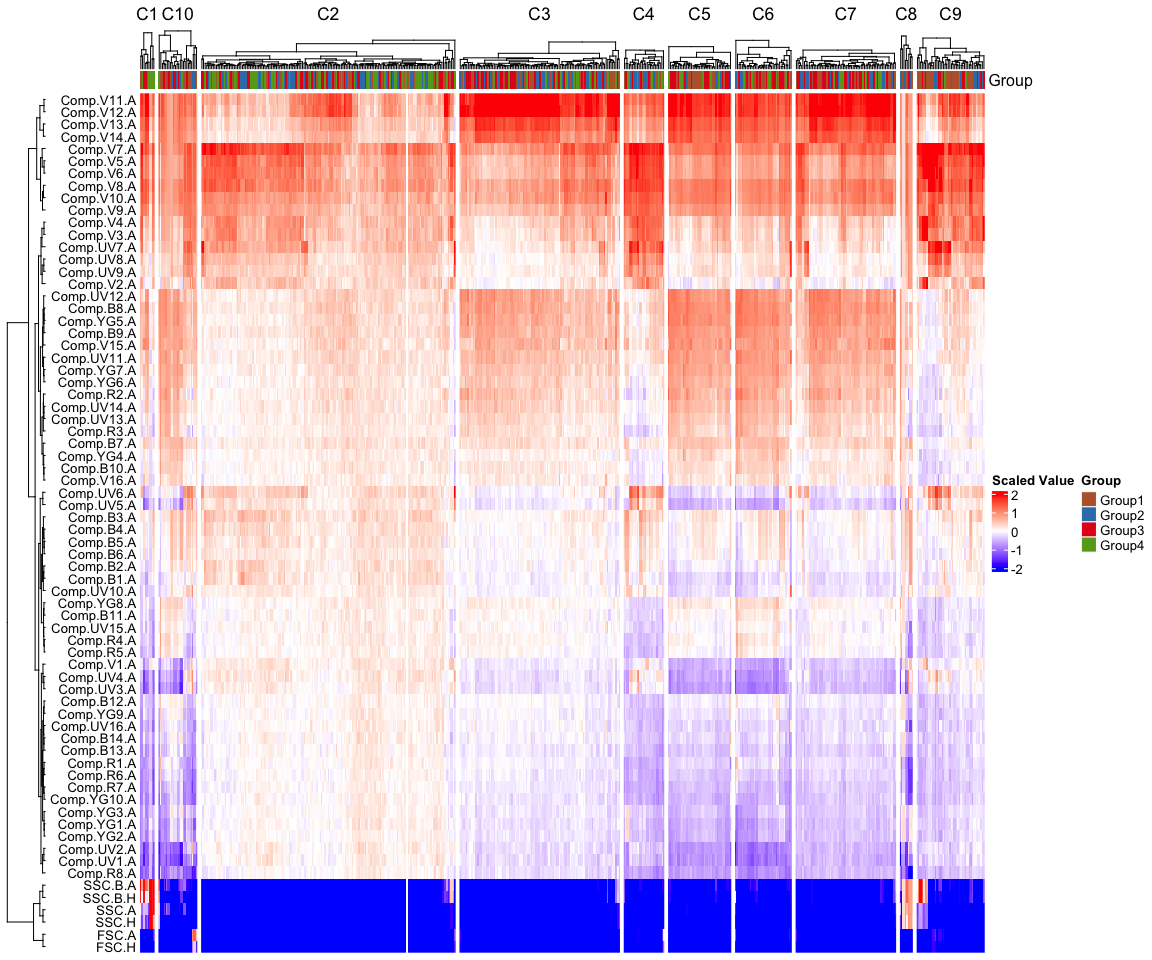
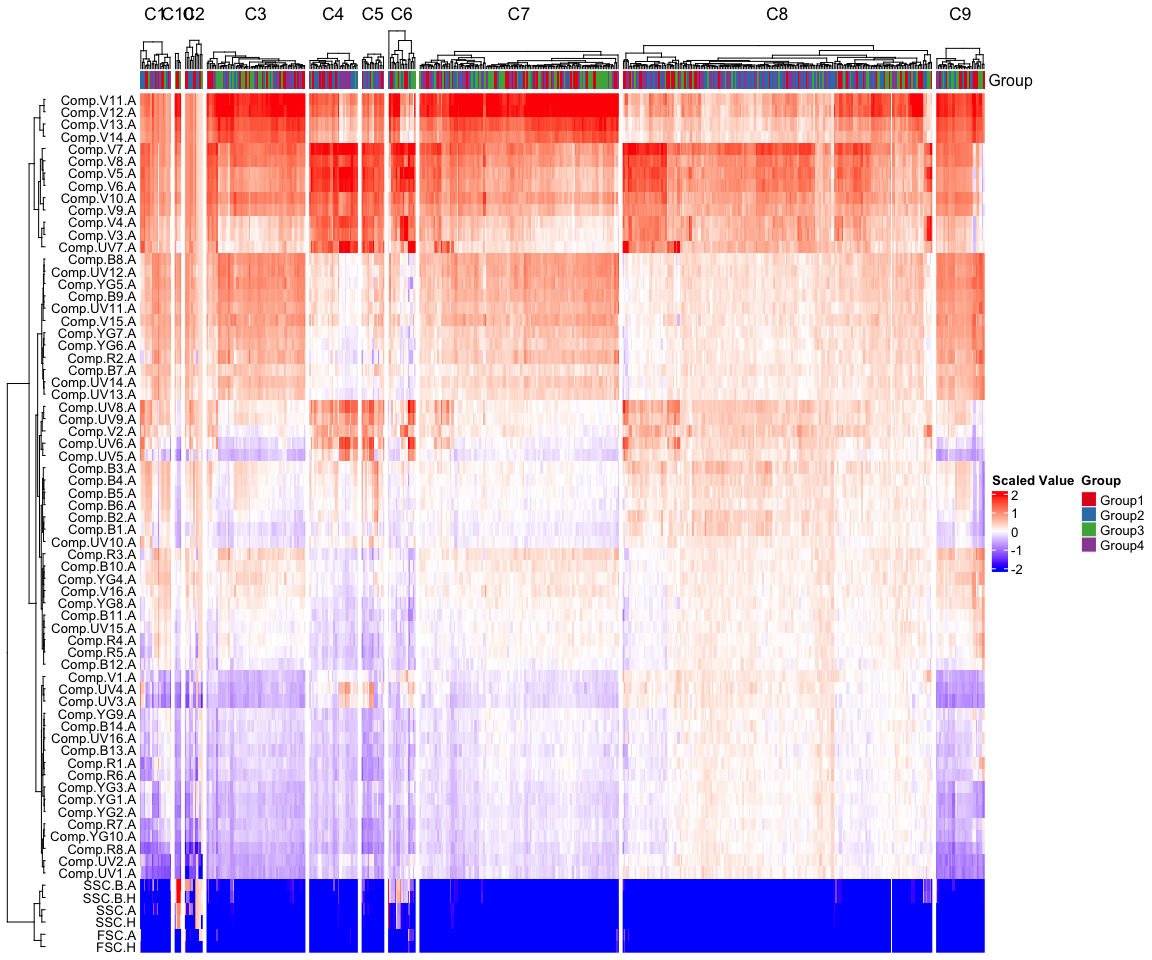
Move to NIAID org and documentation update

diff --git a/README.md b/README.md
@@ -6,20 +6,47 @@ incorporate all aspects of a dataset in an unbiased manner.
 
 ## JoesFlow Installation
 
-Install locally in RStudio
+### Installation via Docker
 
-    remotes::install_github("jcooperdevlin/JoesFlow")
+The recommended method for running JoesFlow is using Docker, because the
+images provided have all system dependencies and R packages.
+
+-   [Install Docker on your
+    system.](https://docs.docker.com/get-docker/) This will require
+    admin-level access. Using the WSL 2 backend is recommended for
+    Windows computers.
+-   Open Docker on your computer.
+-   Mac OS
+    -   Open Terminal.app
+-   Windows
+    -   Open the Windows PowerShell
+-   Start JoesFlow with the following command:
+    `docker run --user shiny --rm -ti -p 3838:3838 johnsonra/joes-flow`
+    -   The first time you run this will take several minutes, as it
+        will have to download the image to your computer. The next time
+        you start it up should only take a few seconds.
+    -   Update your local image (e.g. to update to a new version) with
+        the following command: `docker pull johnsonra/joes-flow`
+-   Once JoesFlow is running, open this page in your favorite browser:
+    <http://localhost:3838/JoesFlow>
+-   To shut down the Docker image when finished, you can enter the
+    command `control-c` in the Terminal/PowerShell window and close it.
+
+### Installation via RStudio
+
+JoesFlow has a lot of dependencies, so in order to install locally in
+RStudio, you may need to install additional system tools and R packages
+for full functionality.
+
+    remotes::install_github("NIAID/JoesFlow")
+
+Once installed, the Shiny app can be started up as follows:
 
     library(JoesFlow)
     run_app()
     #> Loading required package: shiny
     #> 
-    #> Attaching package: 'shiny'
-    #> The following objects are masked from 'package:DT':
-    #> 
-    #>     dataTableOutput, renderDataTable
-    #> 
-    #> Listening on http://127.0.0.1:6897
+    #> Listening on http://127.0.0.1:4322
 
 ![Joe’s Flow Screenshot](README_files/setup-1.png)
 
@@ -36,29 +63,94 @@ Install locally in RStudio
 
 ![meta\_data table](README_files/test_data-2.png)
 
+Convert `meta_data` to named vector as expected by JoesFlow. This is
+taken care of automatically when loading meta data through the shiny
+app, assuming the first column contains IDs, and the second column
+contains Group designations.
 
-    cluster_pca(sample_data, meta_data, 10)
-    #> Warning: Quick-TRANSfer stage steps exceeded maximum (= 2000000)
-    #> Using Freq as value column: use value.var to override.
+    meta <- meta_data[,2]
+    names(meta) <- meta_data[,1]
+
+### PCA figures
+
+
+    # PCA cluster
+    pp <- select(sample_data, -SampleID) %>%
+      prcomp(scale=T)
+      
+    pc1 <- clusterJF(pp, ids = sample_data$SampleID, 
+                meta = meta_data$Group, 
+                colors = colors_samples)
+     
+    # Kmeans cluster
+    set.seed(23948)
+    kmeans_groups <- select(sample_data, -SampleID) %>%
+      kmeans(10) %$% cluster %>%
+      {paste0('C', .)} # add a 'C' on the front of each group
+    names(kmeans_groups) <- sample_data$SampleID
+      
+    pc2 <- clusterJF(pp, ids = 1:nrow(sample_data),
+                     meta = kmeans_groups,
+                     colors = colors_clusters,
+                     legend.name = 'Kmeans')
+
+    grid.arrange(pc1, pc2, nrow=1)
 
 <img src="README_files/figure-markdown_strict/pca-1.png" style="display: block; margin: auto;" />
 
+### UMAP figures
 
-    cluster_umap(sample_data, meta_data, 10)
-    #> Using Freq as value column: use value.var to override.
+
+    # Umap
+    mnist_umap <- select(sample_data, -SampleID) %>%
+      umap(pca = 15, fast_sgd = TRUE)
+
+    um1 <- clusterJF(mnist_umap, ids = sample_data$SampleID,
+                     meta = meta_data$Group,
+                     colors = colors_samples)
+
+    um2 <- clusterJF(mnist_umap, ids = 1:nrow(sample_data),
+                     meta = kmeans_groups,
+                     colors = colors_clusters,
+                     legend.name = 'Kmeans')
+
+    grid.arrange(um1, um2, nrow=1)
 
 <img src="README_files/figure-markdown_strict/umap-1.png" style="display: block; margin: auto;" />
 
+### Sample-based PCA
 
-    composition_plot(sample_data, meta_data, 15)
-    #> Warning: Quick-TRANSfer stage steps exceeded maximum (= 2000000)
-    #> Using Freq as value column: use value.var to override.
+    # sample-based pca
+    groups_table <- with(sample_data, table(SampleID, kmeans_groups))
+
+    pp <- apply(groups_table, 2, function(x) x / rowSums(groups_table)) %>%
+      prcomp()
+
+    gg3 <- sb_clusterJF(pp, ids = rownames(groups_table),
+                        meta = meta_data$Group,
+                        colors1 = colors_samples,
+                        colors2 = colors_clusters)
+
+    gg3
+
+<img src="README_files/figure-markdown_strict/sample based pca-1.png" style="display: block; margin: auto;" />
+
+### Composition plot
+
+    compositionJF(meta, kmeans_groups, colors_clusters)$g1
 
 <img src="README_files/figure-markdown_strict/comp_plot-1.png" style="display: block; margin: auto;" />
 
 ![data table](README_files/comp_plot-2.png)
 
+### Heat plot
 
-    heat_plot(sample_data, meta_data, 10)
+    # marker heat plot
+    select(sample_data, -SampleID) %>%
+      marker_heatJF(ids = sample_data$SampleID,
+                    meta = meta_data$Group,
+                    kmeans_groups = kmeans_groups,
+                    colors = colors_samples,
+                    sample_size = 500)
 
 <img src="README_files/figure-markdown_strict/heat_plot-1.png" style="display: block; margin: auto;" />
